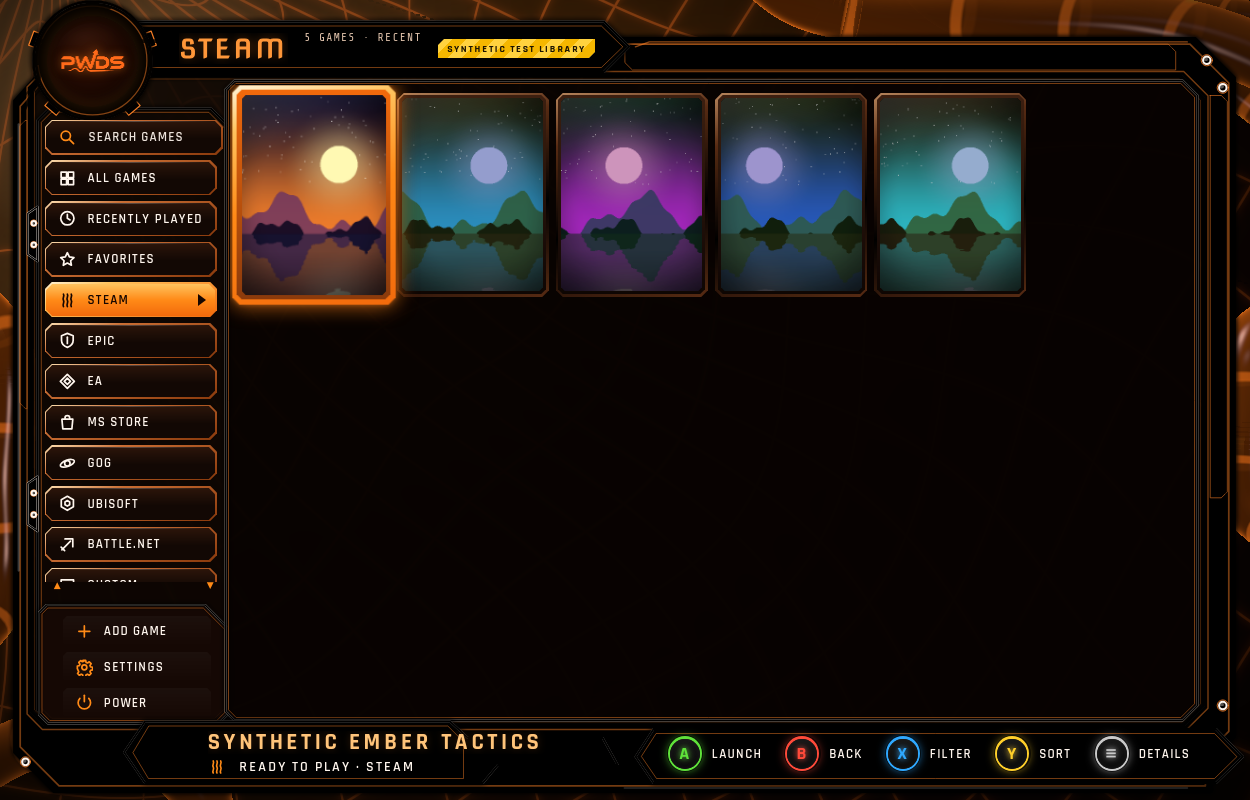
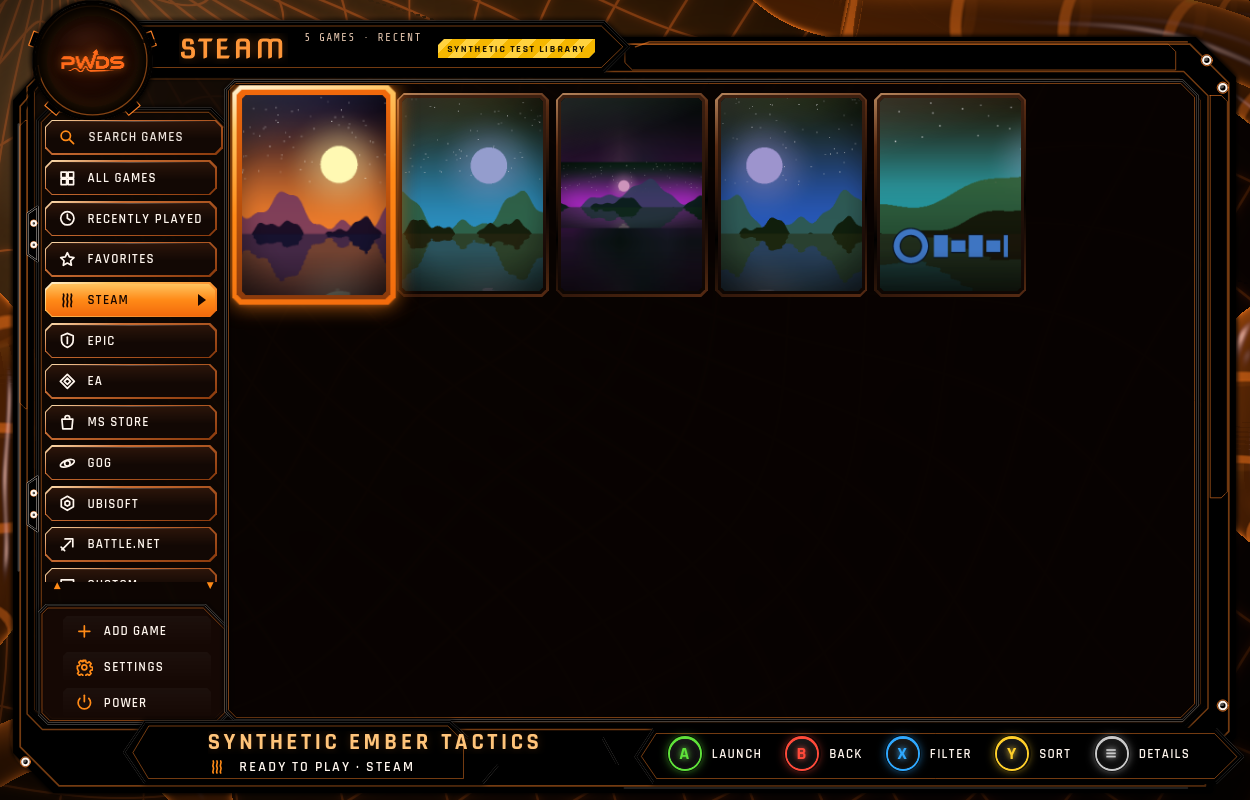
Format the Steam cover code, and show every cache layout in the store screenshot
Applies the rustfmt patch from run 39424987196 (the only failure there; tests
and clippy passed) and replaces the store filter screenshot with that run's
Linux capture, where the five synthetic Steam games use five cache layouts and
two covers are composed from wide art.

Changed region(s): [[0.4368, 0.125, 0.5616, 0.375], [0.6864, 0.1562, 0.8424, 0.375]]

diff --git a/src/stores.rs b/src/stores.rs
@@ -12,8 +12,8 @@
 //! plays) in `LIBRARY/stores/<game id>/`, which a rescan never deletes.
 
 use crate::{
-    COVER_HEIGHT, COVER_WIDTH, HostOs, Result, cover_png_from_file, decode_cover_file, encode_cover,
-    invalid, new_file, regular_file,
+    COVER_HEIGHT, COVER_WIDTH, HostOs, Result, cover_png_from_file, decode_cover_file,
+    encode_cover, invalid, new_file, regular_file,
 };
 use image::{
     DynamicImage, RgbaImage,
@@ -210,7 +210,11 @@ fn hero_with_logo(hero: &DynamicImage, logo: &DynamicImage) -> RgbaImage {
         shade(pixel, 1.0 - 0.6 * depth);
     }
     let logo = logo
-        .resize(COVER_WIDTH * 86 / 100, COVER_HEIGHT * 30 / 100, FilterType::Triangle)
+        .resize(
+            COVER_WIDTH * 86 / 100,
+            COVER_HEIGHT * 30 / 100,
+            FilterType::Triangle,
+        )
         .to_rgba8();
     let x = (COVER_WIDTH - logo.width()) / 2;
     let y = COVER_HEIGHT * 74 / 100 - logo.height() / 2;
@@ -2897,10 +2901,16 @@ mod tests {
         // Any library_600x900 variant, the plain name first.
         touch(&cache, &["2/library_600x900_2x.jpg"]);
         assert_eq!(steam_cover(&root, "2"), image("2/library_600x900_2x.jpg"));
-        touch(&cache, &["2b/library_600x900_2x.jpg", "2b/library_600x900.jpg"]);
+        touch(
+            &cache,
+            &["2b/library_600x900_2x.jpg", "2b/library_600x900.jpg"],
+        );
         assert_eq!(steam_cover(&root, "2b"), image("2b/library_600x900.jpg"));
         // One folder deeper still counts as the per-app portrait, ahead of the capsule.
-        touch(&cache, &["3/abc123/library_600x900.jpg", "3/library_capsule.jpg"]);
+        touch(
+            &cache,
+            &["3/abc123/library_600x900.jpg", "3/library_capsule.jpg"],
+        );
         assert_eq!(
             steam_cover(&root, "3"),
             image("3/abc123/library_600x900.jpg")
@@ -2972,7 +2982,10 @@ mod tests {
     fn write_image(path: &Path, pixels: image::RgbaImage) {
         let mut bytes = Vec::new();
         DynamicImage::ImageRgba8(pixels)
-            .write_to(&mut std::io::Cursor::new(&mut bytes), image::ImageFormat::Png)
+            .write_to(
+                &mut std::io::Cursor::new(&mut bytes),
+                image::ImageFormat::Png,
+            )
             .unwrap();
         fs::create_dir_all(path.parent().unwrap()).unwrap();
         fs::write(path, bytes).unwrap();
@@ -3018,7 +3031,10 @@ mod tests {
         );
         assert_eq!(cover.dimensions(), (COVER_WIDTH, COVER_HEIGHT));
         let top = cover.get_pixel(300, 60).0;
-        assert!(top[2] > 200 && top[0] < 40, "the hero fills the top: {top:?}");
+        assert!(
+            top[2] > 200 && top[0] < 40,
+            "the hero fills the top: {top:?}"
+        );
         let middle = cover.get_pixel(300, COVER_HEIGHT * 74 / 100).0;
         assert!(
             middle[0] > 200 && middle[2] < 60,
@@ -3119,10 +3135,7 @@ mod tests {
             },
         ] {
             let text = serde_json::to_string(&source).unwrap();
-            assert_eq!(
-                serde_json::from_str::<CoverSource>(&text).unwrap(),
-                source
-            );
+            assert_eq!(serde_json::from_str::<CoverSource>(&text).unwrap(), source);
         }
     }
 }

diff --git a/README.md b/README.md
@@ -70,7 +70,7 @@ Every launcher image on this page was rendered by the real `gamestrike-launcher`
 
 | | |
 | --- | --- |
-| ![The Steam row selected in the sidebar, with five synthetic Steam games and their covers from the fixture's library cache](docs/screenshots/stores.png) **A store filter** (Linux): each store with games gets a row with its own glyph and count. | ![Details of Synthetic Ember Tactics: the cover in the cradle and an info panel with Store Steam, the install folder in its real case, plays, last played, starts with Steam, and found; actions include Open install folder and Hide game](docs/screenshots/store-detail.png) **Store game details** (Windows): the store, install folder, and *Open install folder*. |
+| ![The Steam row selected in the sidebar, with five synthetic Steam games, one per cache layout: three portrait covers, a header letterboxed over a blurred copy of itself, and a hero image with a stand-in logo on it](docs/screenshots/stores.png) **A store filter** (Linux, from run [39424987196](https://github.com/Gerbzz/GameStrike/actions/runs/39424987196), whose code differs from the final one only in formatting): each store with games gets a row with its own glyph and count. The fixture gives each Steam game a different cache layout; the third and fifth covers are composed from wide art. | ![Details of Synthetic Ember Tactics: the cover in the cradle and an info panel with Store Steam, the install folder in its real case, plays, last played, starts with Steam, and found; actions include Open install folder and Hide game](docs/screenshots/store-detail.png) **Store game details** (Windows): the store, install folder, and *Open install folder*. |
 | ![Add to your collection dialog with Add a program or shortcut, Add an HTML game, Refresh store libraries, and Back](docs/screenshots/add-menu.png) **Add game** (Linux): a program, an HTML game, or a store rescan. | ![Store libraries settings on macOS: Steam on with 5 games, Custom on with 1 game, and the other stores greyed out as Windows only](docs/screenshots/store-settings.png) **Settings → Store libraries** (macOS): each store can be turned off; stores this OS does not support say so. |
 
 | | |
